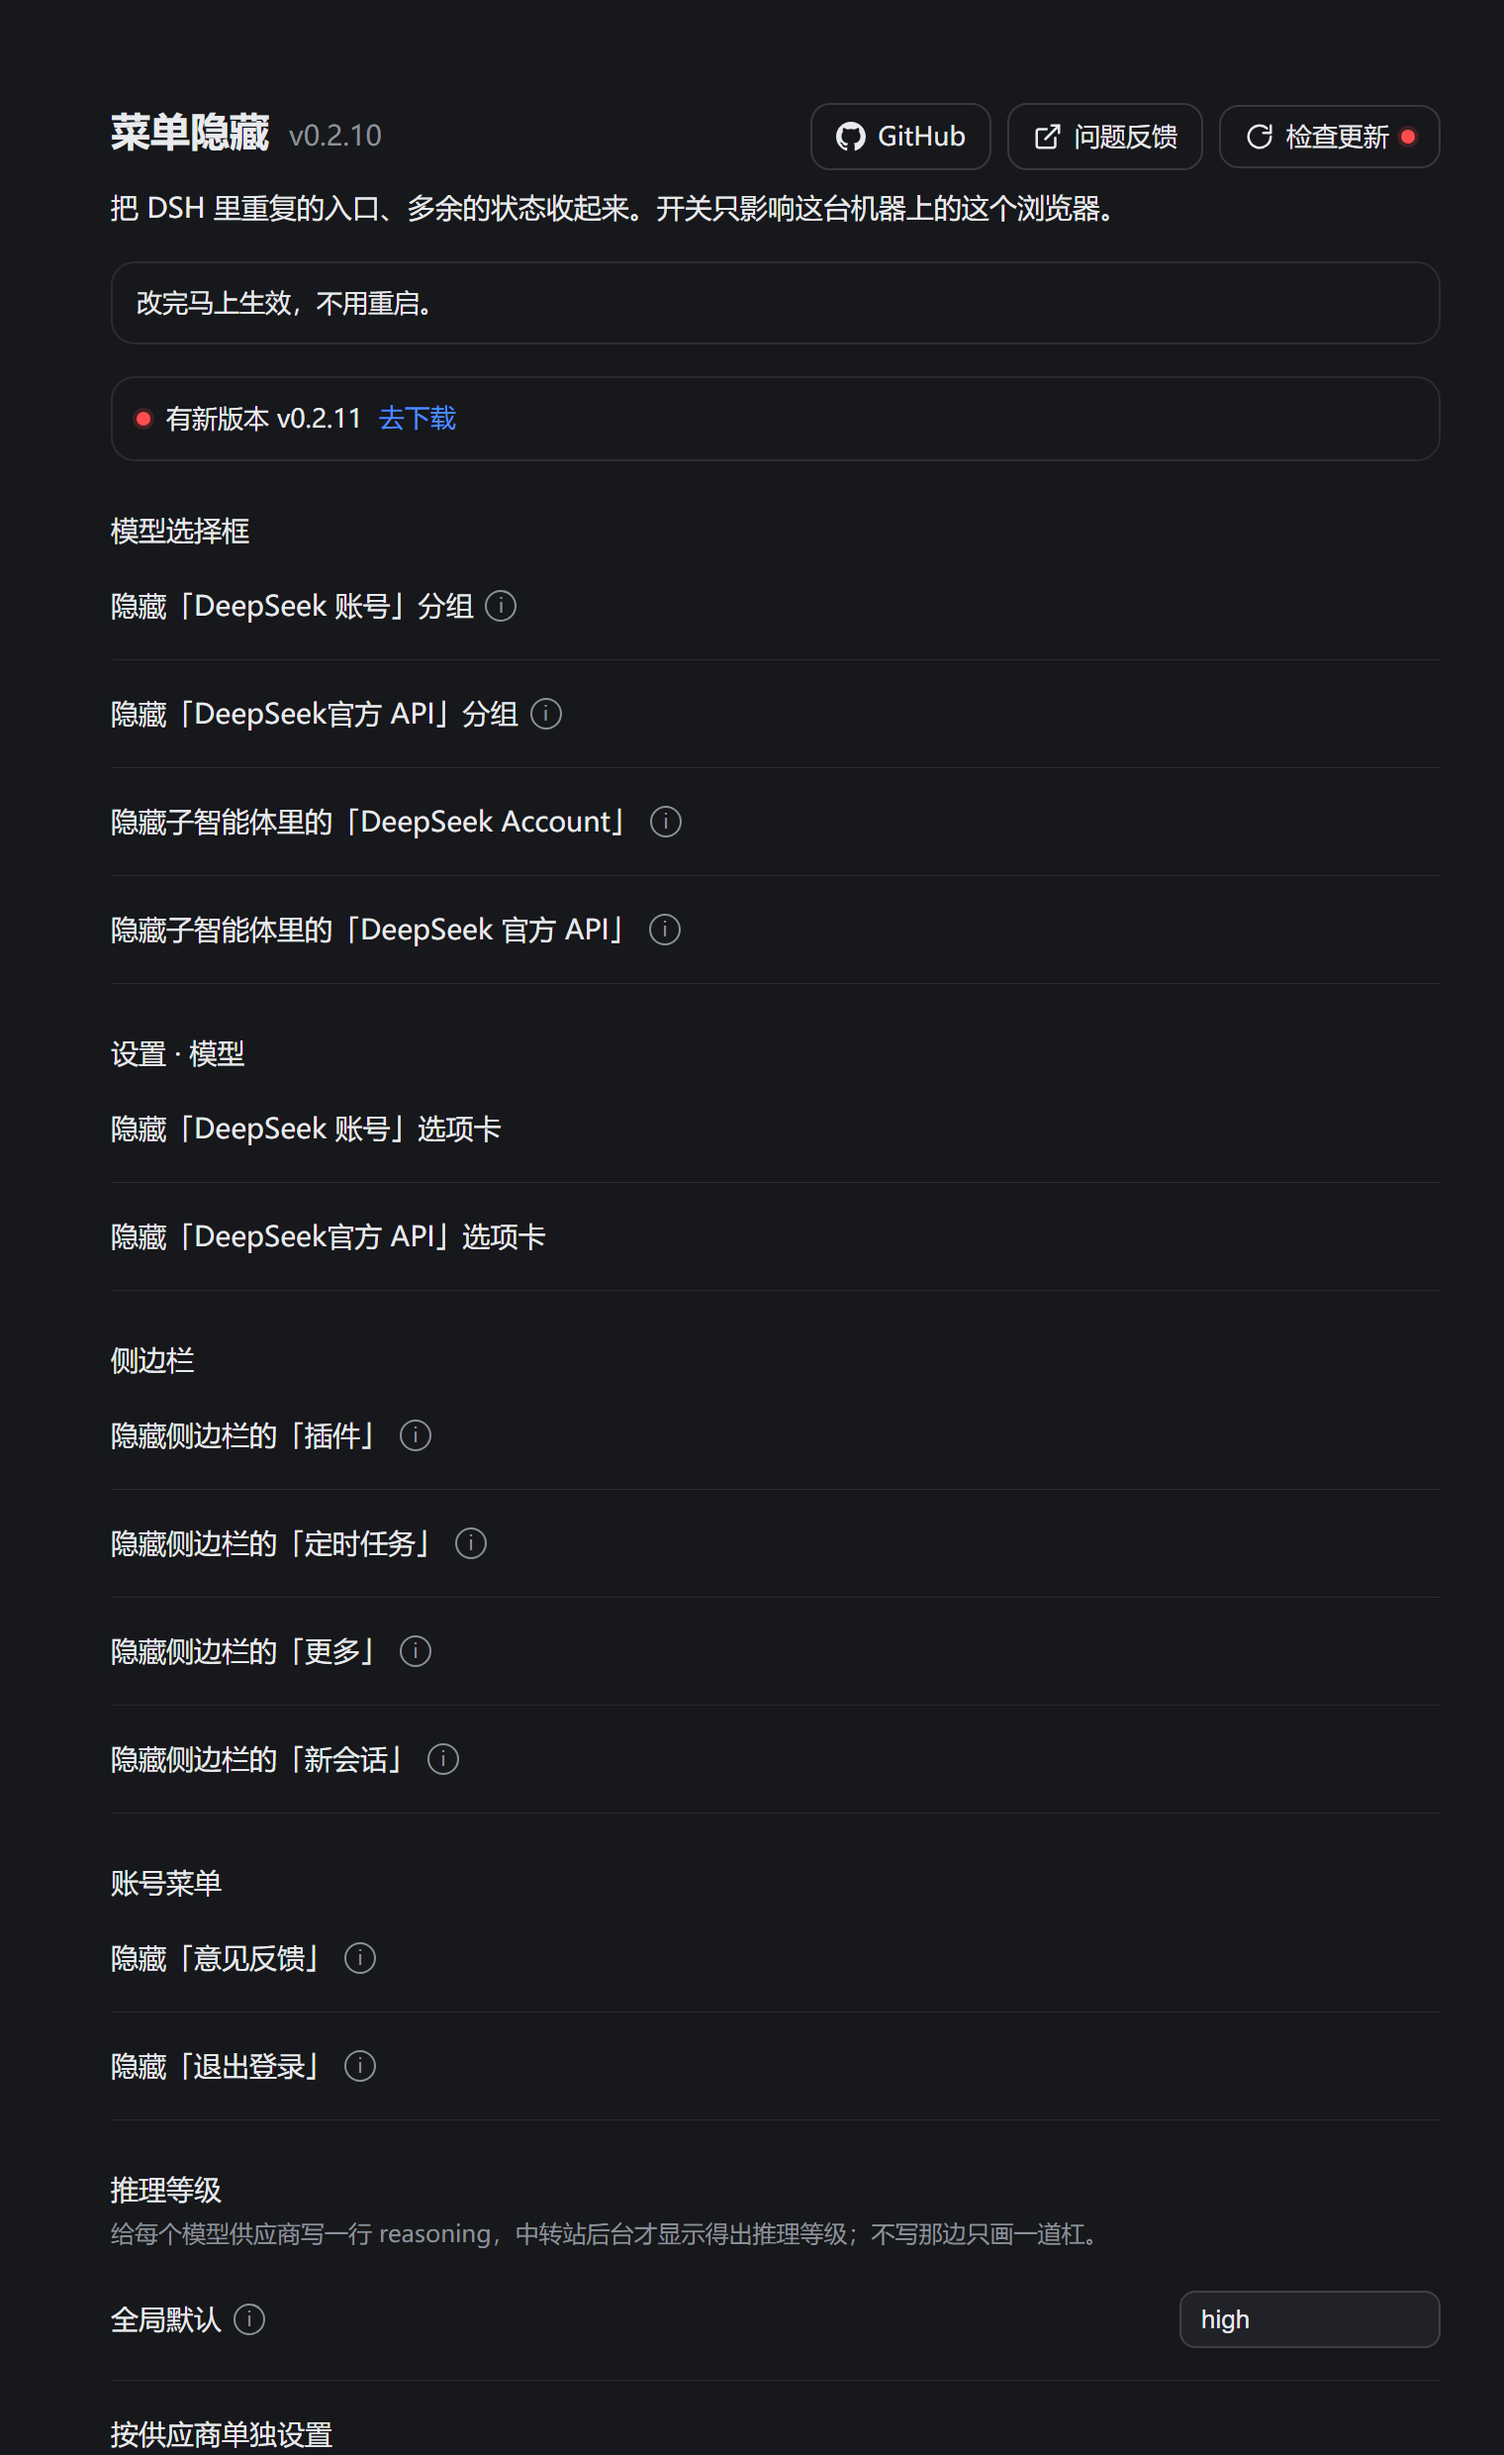
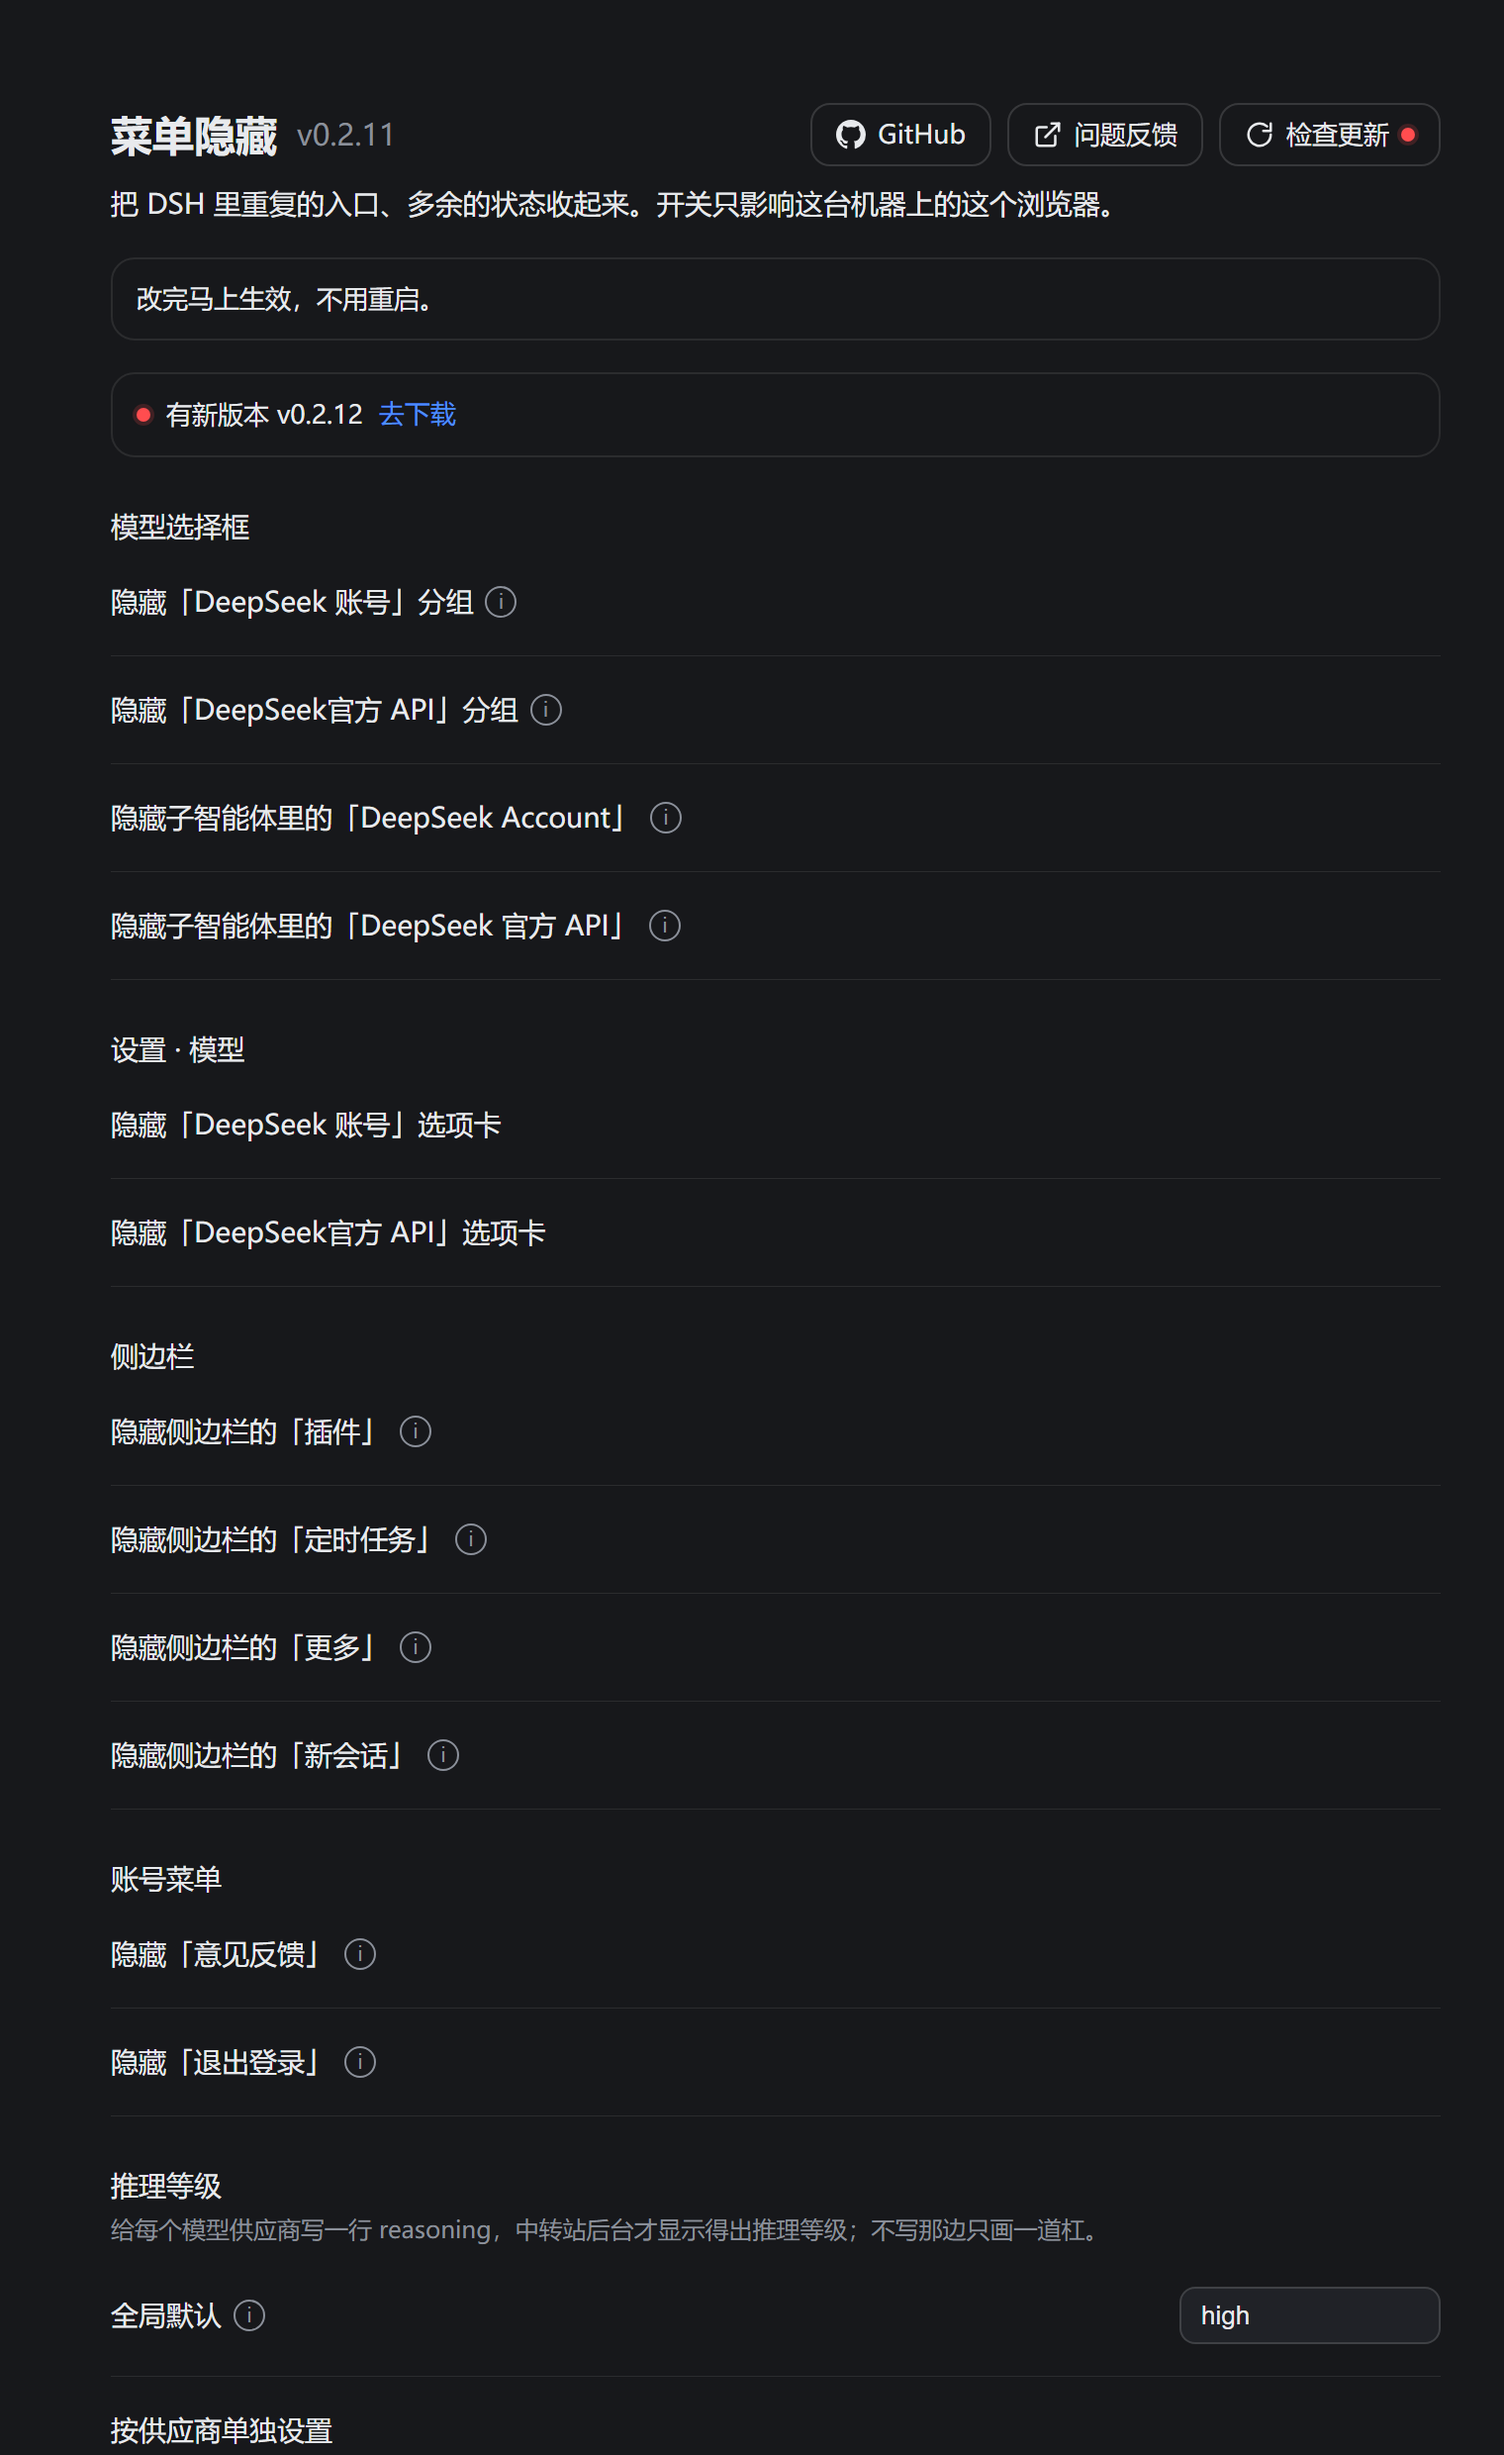
0.2.11: 标题/版本/胶囊底部对齐；外链不再双跳；更新检查一分钟去重

diff --git a/client.js b/client.js
@@ -40,6 +40,9 @@ window.__ModuleLoader__.load({
 		const SHELL_ROUTE = "/dsh-menu-hidden/api/shell-menu";
 		const REASONING_ROUTE = "/dsh-menu-hidden/api/reasoning";
 		const UPDATE_ROUTE = "/dsh-menu-hidden/api/update";
+		/** 一分钟内只自动查一次：面板来回切、React 重挂载都不会连打两炮。 */
+		const UPDATE_DEDUPE_MS = 60 * 1000;
+		let updateCheckedAt = 0;
 		const REPO_URL = "https://github.com/Biu-Bong/dsh-menu-hidden";
 		const SETTINGS_SECTION_SLOT = "settings.section";
 
@@ -561,11 +564,11 @@ window.__ModuleLoader__.load({
 		// ── §6 样式 ───────────────────────────────────────────────────────────
 		const CSS = [
 			".dshmh-page{box-sizing:border-box;display:flex;flex-direction:column;width:100%;max-width:720px;margin:0 auto;padding:24px}",
-			".dshmh-headrow{display:flex;align-items:baseline;flex-wrap:wrap;gap:10px;margin:0 0 8px}",
-			".dshmh-title{color:var(--dsw-alias-label-primary,inherit);margin:0;font-size:20px;font-weight:600;line-height:28px}",
-			".dshmh-ver{color:var(--dsw-alias-label-secondary,#8b909a);font-size:14px;line-height:20px;font-weight:400;font-variant-numeric:tabular-nums;align-self:baseline}",
-			".dshmh-pills{display:flex;align-items:center;gap:8px;margin-left:auto;flex-wrap:wrap;align-self:center}",
-			".dshmh-pill{display:inline-flex;align-items:center;gap:6px;height:32px;padding:0 12px;border-radius:10px;border:1px solid var(--dsw-alias-border-l2,rgba(255,255,255,.14));background:transparent;color:var(--dsw-alias-label-primary,inherit);font-size:13px;font-weight:400;line-height:20px;text-decoration:none;cursor:pointer;font-family:inherit}",
+			".dshmh-headrow{display:flex;align-items:flex-end;flex-wrap:wrap;gap:10px;margin:0 0 8px}",
+			".dshmh-title{color:var(--dsw-alias-label-primary,inherit);margin:0;font-size:21px;font-weight:600;line-height:32px}",
+			".dshmh-ver{color:var(--dsw-alias-label-secondary,#8b909a);font-size:15px;line-height:32px;font-weight:400;font-variant-numeric:tabular-nums;align-self:flex-end}",
+			".dshmh-pills{display:flex;align-items:center;gap:8px;margin-left:auto;flex-wrap:wrap;align-self:flex-end;height:32px}",
+			".dshmh-pill{display:inline-flex;align-items:center;gap:6px;height:32px;box-sizing:border-box;padding:0 12px;border-radius:10px;border:1px solid var(--dsw-alias-border-l2,rgba(255,255,255,.14));background:transparent;color:var(--dsw-alias-label-primary,inherit);font-size:13px;font-weight:400;line-height:20px;text-decoration:none;cursor:pointer;font-family:inherit}",
 			".dshmh-pill:hover{background:var(--dsw-alias-interactive-bg-hover,rgba(255,255,255,.07))}",
 			".dshmh-pill:disabled{opacity:.6;cursor:default}",
 			".dshmh-icon{width:15px;height:15px;flex:none}",
@@ -772,11 +775,11 @@ window.__ModuleLoader__.load({
 		 * @param {string} url - 目标地址。
 		 */
 		function openExternal(event, url) {
+			// 先拦掉 <a> 自己的默认跳转：不拦的话 window.open 成功时浏览器还会再走一次 href，
+			// 点一下开两个标签页，就是这个原因。
+			event.preventDefault();
 			const opened = window.open(url, "_blank", "noopener");
-			if (opened === null) {
-				event.preventDefault();
-				window.location.href = url;
-			}
+			if (opened === null) window.location.href = url;
 		}
 
 		function SettingsSection() {
@@ -800,7 +803,10 @@ window.__ModuleLoader__.load({
 				return () => { alive = false; };
 			}, []);
 
-			const checkUpdate = () => {
+			const checkUpdate = (force) => {
+				const now = Date.now();
+				if (force !== true && now - updateCheckedAt < UPDATE_DEDUPE_MS) return;
+				updateCheckedAt = now;
 				setUpdate((prev) => ({ ...(prev ?? {}), status: "loading" }));
 				fetch(UPDATE_ROUTE, { credentials: "same-origin" }).then((response) => response.json()).then(
 					(state) => setUpdate({ status: "done", ...state }),
@@ -808,7 +814,7 @@ window.__ModuleLoader__.load({
 				);
 			};
 
-			React.useEffect(() => { checkUpdate(); }, []);
+			React.useEffect(() => { checkUpdate(false); }, []);
 
 			const toggle = (key) => (next) => {
 				prefs[key] = next === true;
@@ -1070,7 +1076,7 @@ window.__ModuleLoader__.load({
 							type: "button",
 							className: "dshmh-pill",
 							disabled: update !== null && update.status === "loading",
-							onClick: checkUpdate,
+							onClick: () => checkUpdate(true),
 						}, REFRESH_ICON,
 						update !== null && update.status === "loading" ? t("updateChecking") : t("updateCheck"),
 						update !== null && update.hasUpdate === true ? React.createElement("span", { className: "dshmh-dot", "aria-hidden": "true" }) : null),
